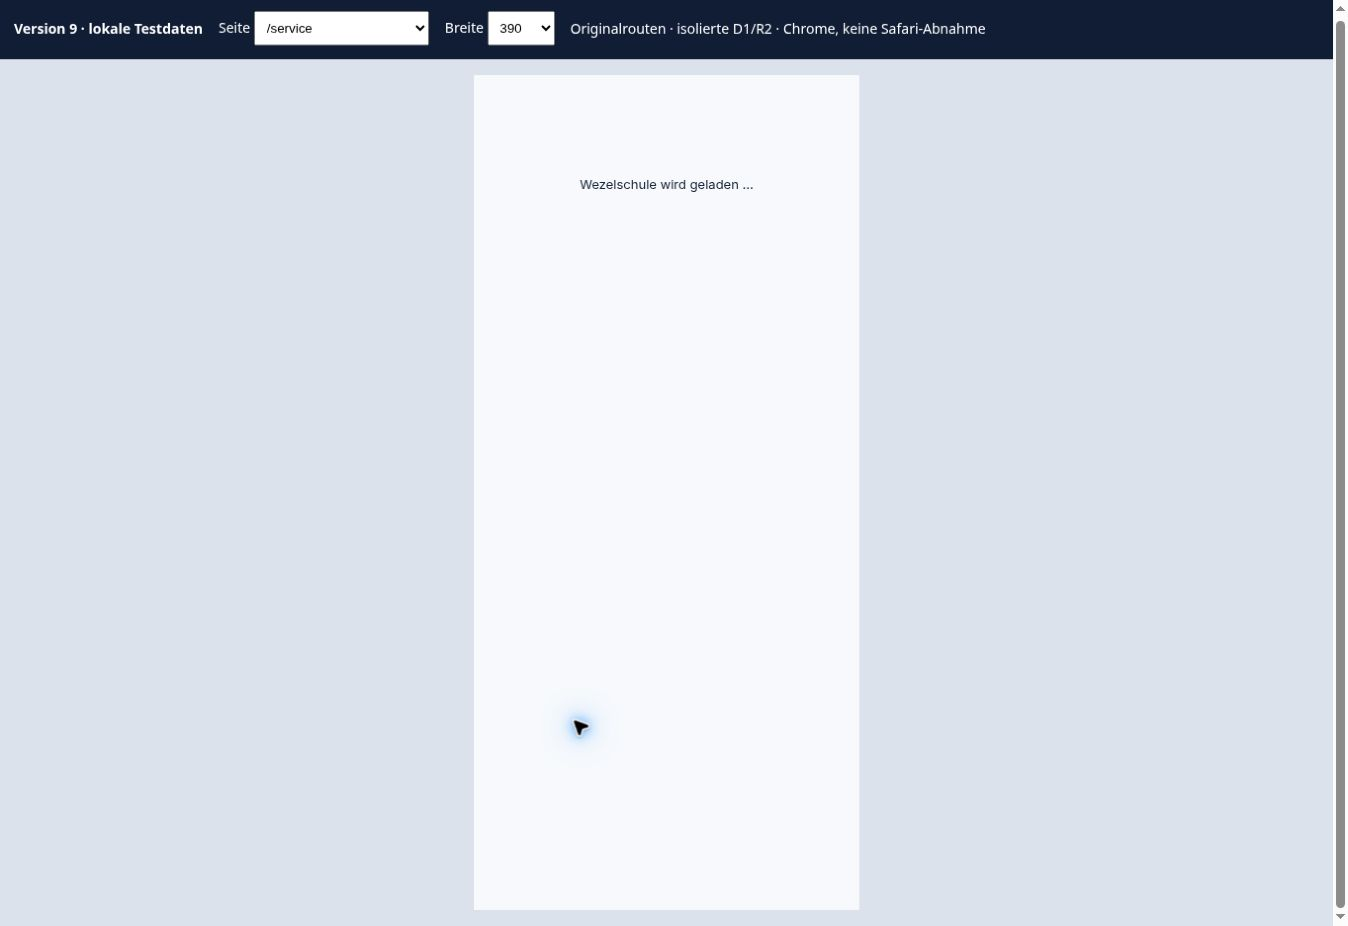
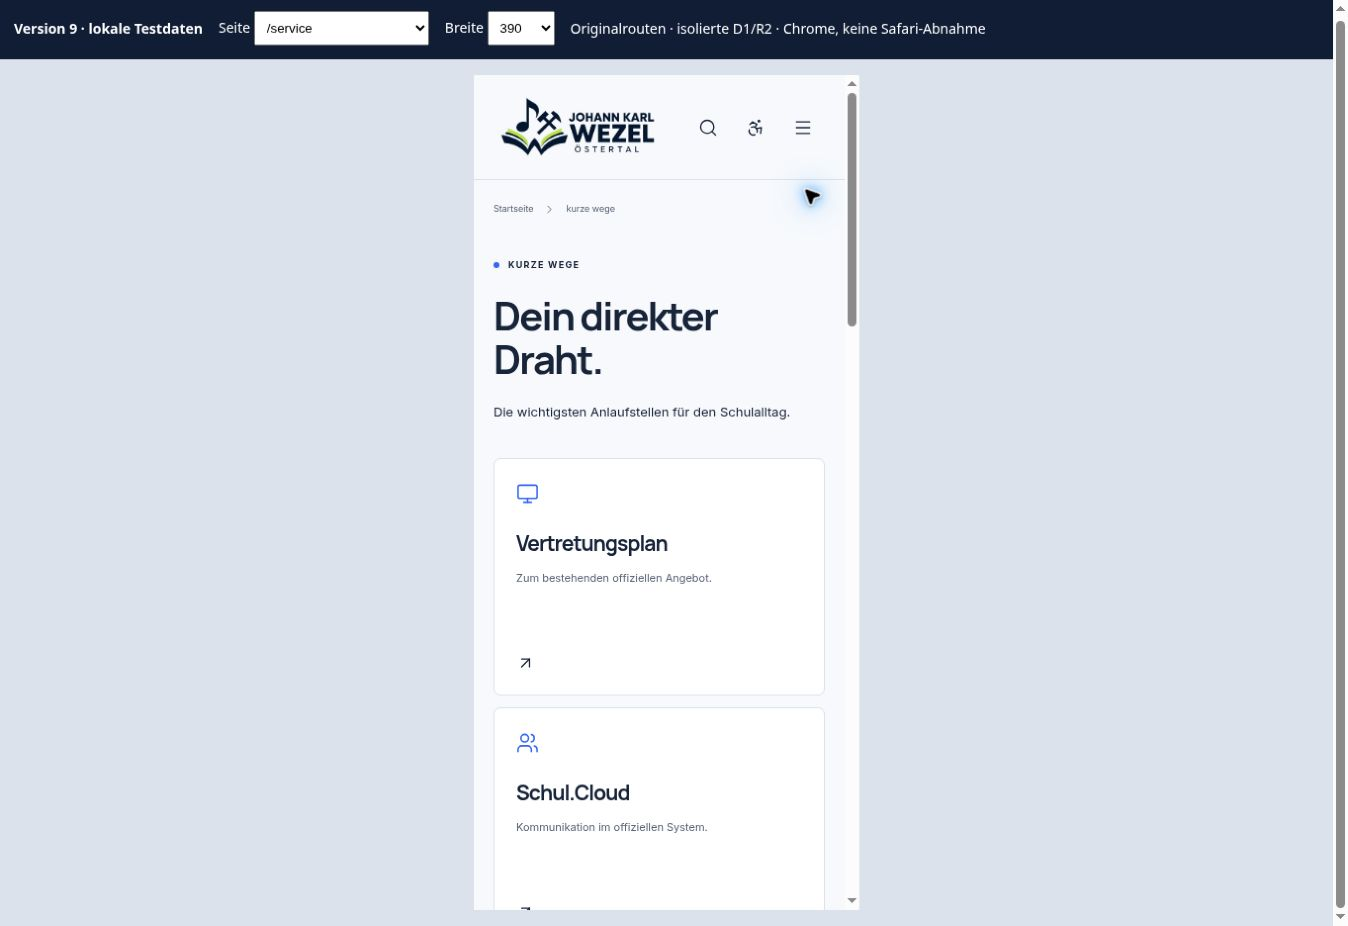
fix: restore original school photos missing from GitHub source
Preserve the exact Version 9 image blobs and existing rights notices. Keep the asset regression check; replace the mobile-service screenshot with its verified fully rendered state. No production or schema changes.

diff --git a/docs/PHASE5-TESTBETRIEB.md b/docs/PHASE5-TESTBETRIEB.md
@@ -47,7 +47,7 @@ Für die visuelle Prüfung wurden die aktuell veröffentlichten 15 Inhaltsdatens
 | Öffentliche Seiten und Navigation | Backend/SSR und 60 Browserzustände bestanden | Dev-RSC-/Suspense-Warnung | P1 | Entwicklungswarnung klären; vollständige Browserabnahme nachholen |
 | Serviceseite mobil | Fehler behoben und nachgemessen | Vorher 439 px Inhalt bei 375 px verfügbarem Platz; nachher 375/375 | Behoben | Änderung im separaten Zweig prüfen; noch nicht in gespeicherter Version 9 |
 | Logo, Header, Footer | Sichtbare Logos in allen 60 Zuständen geladen | Echte Safari-/Geräteabnahme fehlt | P2 | Auf iPhone und iPad gegenprüfen |
-| Öffentliche Medien | Acht referenzierte Dateien erfolgreich gelesen | Keine vollständige rechtliche Bildrechteprüfung | Redaktionell | Schule bestätigt inhaltliche Nutzungsfreigaben |
+| Öffentliche Medien | Acht referenzierte Dateien erfolgreich gelesen; zwei im GitHub-Stand fehlende Original-Schulfotos ergänzt | Keine vollständige rechtliche Bildrechteprüfung | Bestand korrigiert / redaktionell | Schule bestätigt inhaltliche Nutzungsfreigaben |
 | Downloads | Sieben Original-PDFs mit HTTP 200/PDF-Signatur | Inhaltliche Aktualität und Barrierefreiheit nicht bestätigt | Redaktionell | Verantwortliche prüfen Formulare |
 | Kontakt | Konfigurierte Adresse, Telefon- und Mailverweise dargestellt | Keine Telefonnummer angerufen, keine echte E-Mail gesendet | Redaktionell | Schule bestätigt Kontaktdaten |
 | Login / Logout / Session-Sicherheit | Backend einschließlich falschem Passwort, Cookies, Entzug, Timeout und Rate Limit bestanden | Vollständige authentifizierte Browserbedienung fehlt | P1 | Persönlich oder über sicheren unterstützten Testzugang abnehmen |
@@ -65,11 +65,13 @@ Für die visuelle Prüfung wurden die aktuell veröffentlichten 15 Inhaltsdatens
 | Monat / Woche / Liste / Filter / Details | Reale öffentliche Browserbedienung bestanden | Kalenderabo durch private äußere Sites-Sperre begrenzt | Betriebsgrenze | Keine heimliche Öffnung der Site |
 | Bestehende Daten / Adminzugang | Keine gehosteten Schreibaktionen; Ausgangs-ID im lokalen Übernahmetest erhalten | Kein vollständiger produktiver D1/R2-Restore durchgeführt | P1 | Betreiberbackup und Restore vor jeder Übernahme |
 
-## Nachweisbare Korrektur
+## Nachweisbare Korrekturen
 
 `app/globals.css`: Unter 600 px werden Servicekarten in einer flexiblen einzelnen Spalte dargestellt. Zuvor erzwangen die Mindestbreiten zweier Karten bei Smartphone-Breite einen seitlichen Überlauf. Nachgemessen: 439 → 375 px Scrollbreite bei unverändert 375 px verfügbarer Breite. Keine Inhalte wurden entfernt und kein `overflow:hidden` zum Verdecken des Problems verwendet.
 
 Dies ist ein **unveröffentlichter Phase-5-Patch auf Version 9**. Die gespeicherte Sites-Version 9 wurde nicht ersetzt und keine neue Versionsnummer erfunden.
+
+Der erste zusätzliche GitHub-CI-Lauf meldete außerdem ein fehlendes `dist/client/school/nschu01.jpg`. Ursache: Im GitHub-Quellbaum fehlten beide Schulgebäudefotos, obwohl sie im gespeicherten Sites-Original vorhanden sind. `public/school/nschu01.jpg` und `public/school/nschu02.jpg` werden exakt aus diesem Originalbestand ergänzt; ihre Git-Blob-Hashes stimmen mit dem Version-9-Quellcommit überein. Die vorhandenen Quellen-/Rechtehinweise bleiben erhalten. Dies ist eine Reparatur des GitHub-Dateibestands, keine neue Bildbeschaffung und keine produktive Veröffentlichung. Die Build-/Medienprüfung bleibt als Regressionstest bestehen.
 
 Zusätzlich: `tests/phase5-testbetrieb.mjs` und ein entsprechender Testschritt in `.github/workflows/ci.yml`. Die CI enthält ausschließlich Prüfungen, keine Bereitstellung. Keine Datenbankmigrationen hinzugefügt oder geändert.
 
